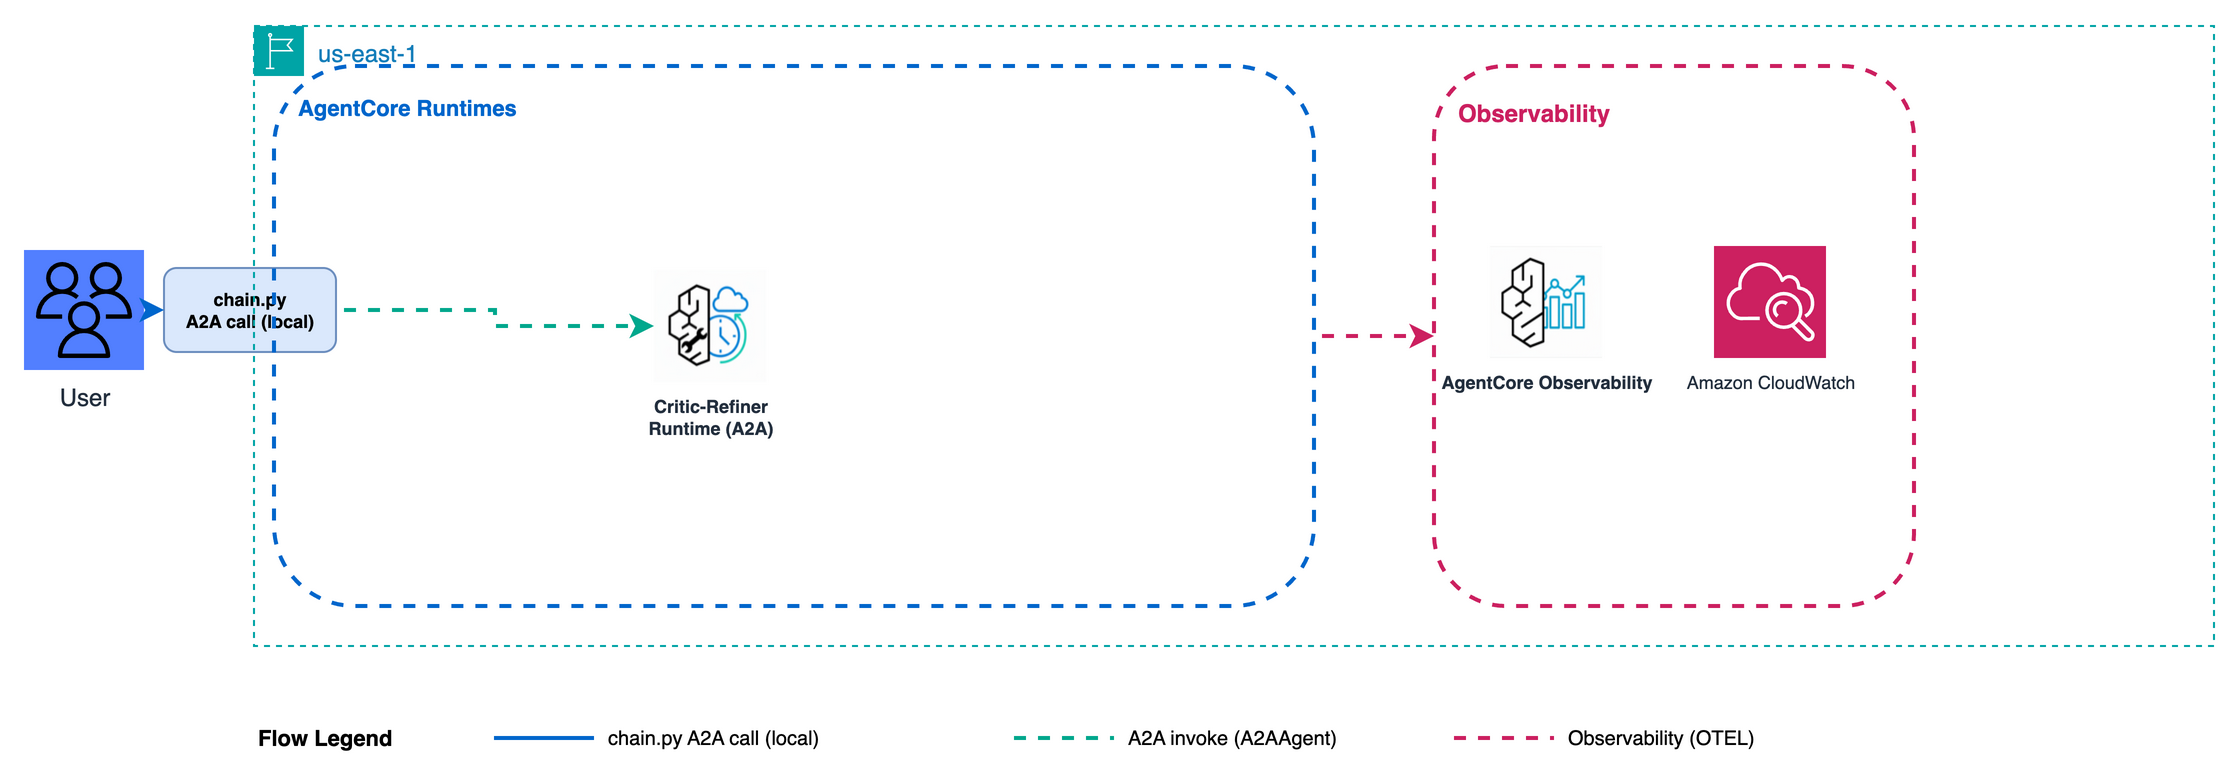
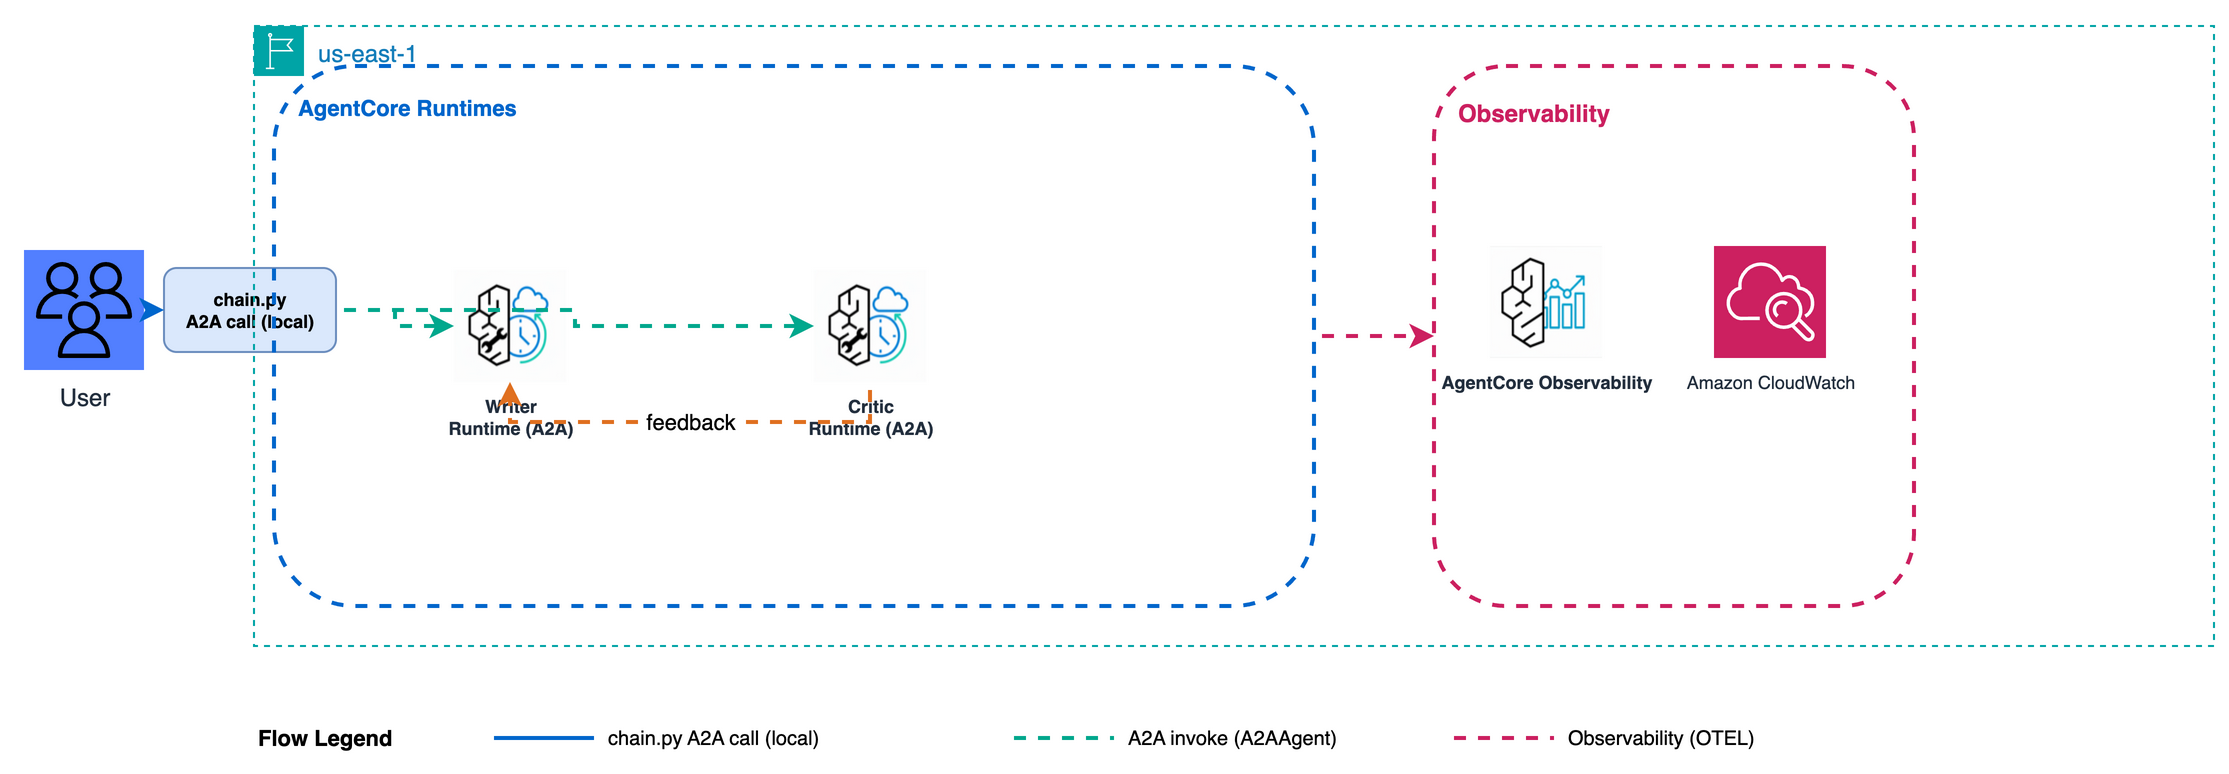
Module 05: split critic_refiner into separate Writer + Critic runtimes, chain.py manages loop via explicit context passing

Changed region(s): [[0.1857, 0.4961, 0.4334, 0.5581], [0.2786, 0.3721, 0.4024, 0.4651], [0.1857, 0.3721, 0.2476, 0.4651]]

diff --git a/samples/05-critic-refiner/production/chain.py b/samples/05-critic-refiner/production/chain.py
@@ -1,34 +1,36 @@
 """
 Critic-Refiner coordinator — Pattern 3 demo.
 
-Calls the remote Critic-Refiner specialist via A2A.
-The specialist runs the Writer↔Critic GraphBuilder loop internally
-and returns the approved memo.
+Manages the Generator↔Critic loop using two separate A2A specialist runtimes:
 
-This is intentionally simple Python code, not a deployed runtime.
+  Writer Runtime  →  produces or revises the memo
+  Critic Runtime  →  evaluates it: APPROVED or REVISION NEEDED: ...
 
-> NOTE — production alternatives for this coordination layer:
->   - AWS Lambda      : stateless, event-driven, no servers to manage
->   - AWS Step Functions : durable execution with timeout handling
->   The specialist AgentCore Runtime (A2A protocol) stays unchanged in both cases.
+The loop runs until the Critic says APPROVED or max_cycles is reached.
+Context is passed explicitly in each A2A call — no shared in-process memory needed.
 
 Required env vars (set by deploy.py or manually):
-  CRITIC_REFINER_RUNTIME_ARN
+  WRITER_RUNTIME_ARN
+  CRITIC_RUNTIME_ARN
   AWS_REGION (optional, defaults to us-east-1)
 
 Usage:
   python chain.py                   # uses default demo brief
   python chain.py "your brief here"
 """
+import asyncio
 import os
 import sys
+import threading
 
 from strands.agent.a2a_agent import A2AAgent
 
 from a2a_utils import a2a_endpoint, build_agent_card, make_a2a_config, extract_a2a_text
 
-REGION             = os.environ.get("AWS_REGION", "us-east-1")
-CRITIC_REFINER_ARN = os.environ["CRITIC_REFINER_RUNTIME_ARN"]
+REGION          = os.environ.get("AWS_REGION", "us-east-1")
+WRITER_ARN      = os.environ["WRITER_RUNTIME_ARN"]
+CRITIC_ARN      = os.environ["CRITIC_RUNTIME_ARN"]
+MAX_CYCLES      = 4
 
 DEFAULT_BRIEF = (
     "NovaCart Premium Tier: Options A ($19.99/mo invite-only), "
@@ -37,27 +39,26 @@ DEFAULT_BRIEF = (
 )
 
 
-def run_chain(brief: str) -> str:
-    """Send brief to the Critic-Refiner specialist and return the approved memo."""
-    import asyncio, threading
-
+def _make_agent(arn: str, name: str, description: str) -> A2AAgent:
     agent = A2AAgent(
-        endpoint=a2a_endpoint(CRITIC_REFINER_ARN, REGION),
+        endpoint=a2a_endpoint(arn, REGION),
         client_config=make_a2a_config(region=REGION),
-        name="critic_refiner",
-        description="Writer-Critic quality loop.",
+        name=name,
+        description=description,
     )
-    agent._agent_card = build_agent_card(
-        CRITIC_REFINER_ARN, "critic_refiner", "Writer-Critic quality loop.", REGION
-    )
+    agent._agent_card = build_agent_card(arn, name, description, REGION)
+    return agent
 
+
+def _call(agent: A2AAgent, prompt: str, timeout: int = 300) -> str:
+    """Call an A2A agent in an isolated thread with a fresh event loop."""
     result_holder: list = [None, None]
 
     def _run():
         loop = asyncio.new_event_loop()
         asyncio.set_event_loop(loop)
         try:
-            result_holder[0] = loop.run_until_complete(agent.invoke_async(brief))
+            result_holder[0] = loop.run_until_complete(agent.invoke_async(prompt))
         except Exception as exc:
             result_holder[1] = exc
         finally:
@@ -65,15 +66,44 @@ def run_chain(brief: str) -> str:
 
     t = threading.Thread(target=_run, daemon=True)
     t.start()
-    t.join(timeout=600)
+    t.join(timeout=timeout)
     if t.is_alive():
-        raise TimeoutError("Critic-Refiner call timed out after 600s")
+        raise TimeoutError(f"A2A call timed out after {timeout}s")
     if result_holder[1] is not None:
         raise result_holder[1]
     return extract_a2a_text(result_holder[0])
 
 
+def run_chain(brief: str) -> str:
+    """Run the Generator↔Critic loop until APPROVED or MAX_CYCLES."""
+    writer = _make_agent(WRITER_ARN, "writer", "Produces and revises the executive memo.")
+    critic = _make_agent(CRITIC_ARN, "critic", "Evaluates the memo: APPROVED or REVISION NEEDED.")
+
+    # Step 1: Writer produces the first draft
+    draft = _call(writer, brief)
+
+    for cycle in range(1, MAX_CYCLES + 1):
+        # Step 2: Critic evaluates
+        verdict = _call(critic, draft)
+        print(f"  Cycle {cycle} — Critic: {verdict[:80].strip()}")
+
+        if verdict.strip().upper().startswith("APPROVED"):
+            return draft
+
+        # Step 3: Writer revises — passes brief + previous draft + feedback explicitly
+        revision_prompt = (
+            f"Original brief:\n{brief}\n\n"
+            f"Previous draft:\n{draft}\n\n"
+            f"Revision required:\n{verdict}"
+        )
+        draft = _call(writer, revision_prompt)
+
+    return draft  # return last draft if max cycles reached
+
+
 if __name__ == "__main__":
     brief = sys.argv[1] if len(sys.argv) > 1 else DEFAULT_BRIEF
-    print(f"\nRunning Critic-Refiner...\n{'─' * 60}")
-    print(run_chain(brief))
+    print(f"\nRunning Critic-Refiner (2 separate runtimes)...\n{'─' * 60}")
+    result = run_chain(brief)
+    print(f"\n{'─' * 60}")
+    print(result)

diff --git a/samples/05-critic-refiner/production/deploy.py b/samples/05-critic-refiner/production/deploy.py
@@ -1,24 +1,25 @@
 """
-Deploy Module 5: Critic-Refiner — 1 A2A specialist runtime.
+Deploy Module 5: Critic-Refiner — 2 A2A specialist runtimes.
 
 Architecture:
-  critic_refiner  — A2A specialist (port 9000, serve_a2a)
-                    Contains the Writer↔Critic GraphBuilder loop internally.
+  writer   — Generator: produces/revises the memo (A2A, port 9000)
+  critic   — Evaluates the memo: APPROVED or REVISION NEEDED (A2A, port 9000)
 
-No orchestrator runtime is deployed. The specialist is called directly
-by chain.py using A2AAgent.
+The Generator↔Critic loop is coordinated locally by chain.py.
+Context is passed explicitly in each A2A call — no shared in-process memory needed.
 
 AWS AgentCore A2A: https://docs.aws.amazon.com/bedrock-agentcore/latest/devguide/runtime-a2a.html
 
 IAM role (created once per prefix):
-  workshop-agentcore-{prefix}-runtime-role  — A2A specialist (Bedrock, Logs, S3)
+  workshop-agentcore-{prefix}-runtime-role  — A2A specialists (Bedrock, Logs, S3)
 
-Override with env var to skip role creation (workshop environments):
+Override with env var:
   AGENTCORE_RUNTIME_ROLE_ARN
 
 Usage: python deploy.py [--name-prefix m5] [--dry-run]
 """
 import argparse, sys
+from concurrent.futures import ThreadPoolExecutor, as_completed
 from pathlib import Path
 
 SHARED = Path(__file__).parent.parent.parent / "shared"
@@ -30,6 +31,20 @@ MODULE = "m5-critic-refiner"
 HERE   = Path(__file__).parent
 
 
+def _deploy_specialist(session, bucket, account, prefix, name, folder):
+    ctl = session.client("bedrock-agentcore-control", region_name=REGION)
+    iam = session.client("iam", region_name=REGION)
+    s3  = session.client("s3",  region_name=REGION)
+    role_arn = u.ensure_runtime_role(iam, f"workshop-agentcore-{prefix}-runtime-role", account, REGION, bucket)
+    s3_key   = u.upload_code(s3, bucket, MODULE, name, u.zip_folder(folder))
+    print(f"  [{name}] uploaded")
+    runtime_id, _ = u.create_runtime(ctl, name, bucket, s3_key, role_arn, protocol="A2A")
+    print(f"  [{name}] creating A2A runtime...")
+    runtime_arn = u.wait_ready(ctl, runtime_id)
+    print(f"  [{name}] READY: {runtime_arn}")
+    return name, runtime_id, runtime_arn
+
+
 def main():
     parser = argparse.ArgumentParser()
     parser.add_argument("--name-prefix", default="m5", help="Runtime prefix, max 8 chars")
@@ -37,10 +52,11 @@ def main():
     args   = parser.parse_args()
     prefix = args.name_prefix[:8]
 
-    cr_name = f"{prefix}_critic_refiner"
+    specialists = {s: f"{prefix}_{s}" for s in ['writer', 'critic']}
 
     if args.dry_run:
-        print(f"  would create: {cr_name:<25} protocol=A2A")
+        for n in specialists.values():
+            print(f"  would create: {n:<25} protocol=A2A")
         return
 
     session = u.get_session()
@@ -49,24 +65,33 @@ def main():
     ctl = session.client("bedrock-agentcore-control", region_name=REGION)
     iam = session.client("iam", region_name=REGION)
     s3c = session.client("s3",  region_name=REGION)
-
     u.ensure_s3_bucket(s3c, bucket)
     print(f"Code bucket: s3://{bucket}\n")
 
-    role_arn = u.ensure_runtime_role(iam, f"workshop-agentcore-{prefix}-runtime-role", account, REGION, bucket)
-    s3_key   = u.upload_code(s3c, bucket, MODULE, cr_name, u.zip_folder(HERE / "specialists/critic_refiner"))
-    print(f"  [{cr_name}] uploaded")
+    specialist_defs = [
+        (specialists["writer"], HERE / "specialists/writer"),
+        (specialists["critic"], HERE / "specialists/critic"),
+    ]
 
-    runtime_id, _ = u.create_runtime(ctl, cr_name, bucket, s3_key, role_arn, protocol="A2A")
-    print(f"  [{cr_name}] creating A2A runtime...")
-    cr_arn = u.wait_ready(ctl, runtime_id)
-    print(f"  [{cr_name}] READY: {cr_arn}")
+    print("=== Deploy A2A specialists in parallel ===")
+    arns: dict[str, str] = {}
+    with ThreadPoolExecutor(max_workers=2) as pool:
+        futures = {pool.submit(_deploy_specialist, session, bucket, account, prefix, name, folder): name
+                   for name, folder in specialist_defs}
+        for future in as_completed(futures):
+            name, _, arn = future.result()
+            arns[name] = arn
 
     print(f"\n=== Deployment complete ===")
-    print(f"Critic-Refiner ARN: {cr_arn}")
+    print(f"Writer ARN: {arns[specialists['writer']]}")
+    print(f"Critic ARN: {arns[specialists['critic']]}")
 
+    env_block = (
+        f"\nexport WRITER_RUNTIME_ARN={arns[specialists['writer']]}\n"
+        f"export CRITIC_RUNTIME_ARN={arns[specialists['critic']]}\n"
+    )
     with open(".env_arns", "w", encoding="utf-8") as _f:
-        _f.write(f"\nexport CRITIC_REFINER_RUNTIME_ARN={cr_arn}\n")
+        _f.write(env_block)
 
     print(f"\nRun the chain:")
     print(f"  source .env_arns && python chain.py")

diff --git a/samples/05-critic-refiner/production/specialists/critic/main.py b/samples/05-critic-refiner/production/specialists/critic/main.py
@@ -1,0 +1,33 @@
+"""Critic specialist — A2A Runtime.
+Evaluates a memo against 5 criteria. Returns APPROVED or REVISION NEEDED.
+"""
+import logging
+from bedrock_agentcore.runtime import serve_a2a
+from strands import Agent
+from strands.multiagent.a2a.executor import StrandsA2AExecutor
+
+logger = logging.getLogger(__name__)
+
+SYSTEM_PROMPT = (
+    "You are a quality critic. Check ONLY these 5 criteria:\n"
+    "1. '## Recommendation' — clear option choice (A, B, or C)\n"
+    "2. '## Options at a Glance' — table comparing A, B, C\n"
+    "3. '## Top 3 Risks' — at least 3 risks each with a specific mitigation\n"
+    "4. '## Success Metrics' — at least 2 KPIs with numeric targets\n"
+    "5. '## Decision Required' — both owner AND deadline\n"
+    "Respond with EXACTLY one of:\n"
+    "APPROVED\n"
+    "REVISION NEEDED: [which criterion numbers are missing or incomplete]\n"
+    "Your response must start with APPROVED or REVISION NEEDED."
+)
+
+_agent = None
+
+def get_agent():
+    global _agent
+    if _agent is None:
+        _agent = Agent(system_prompt=SYSTEM_PROMPT, callback_handler=None)
+    return _agent
+
+if __name__ == "__main__":
+    serve_a2a(StrandsA2AExecutor(get_agent()))

diff --git a/samples/05-critic-refiner/production/specialists/writer/main.py b/samples/05-critic-refiner/production/specialists/writer/main.py
@@ -1,0 +1,31 @@
+"""Writer (Generator) specialist — A2A Runtime.
+Produces or revises a leadership memo based on the brief and optional feedback.
+"""
+import logging
+from bedrock_agentcore.runtime import serve_a2a
+from strands import Agent
+from strands.multiagent.a2a.executor import StrandsA2AExecutor
+
+logger = logging.getLogger(__name__)
+
+SYSTEM_PROMPT = (
+    "You are an executive memo writer. Write or revise a COMPLETE leadership memo "
+    "with exactly these 5 sections:\n"
+    "## Recommendation (one sentence: which option and why)\n"
+    "## Options at a Glance (table comparing A, B, C on Complexity/Risk/Verdict)\n"
+    "## Top 3 Risks (each with a specific mitigation)\n"
+    "## Success Metrics (at least 2 KPIs with numeric targets)\n"
+    "## Decision Required (owner, deadline, who must approve)\n"
+    "If you receive revision feedback, address ALL flagged criteria. Under 400 words."
+)
+
+_agent = None
+
+def get_agent():
+    global _agent
+    if _agent is None:
+        _agent = Agent(system_prompt=SYSTEM_PROMPT, callback_handler=None)
+    return _agent
+
+if __name__ == "__main__":
+    serve_a2a(StrandsA2AExecutor(get_agent()))
